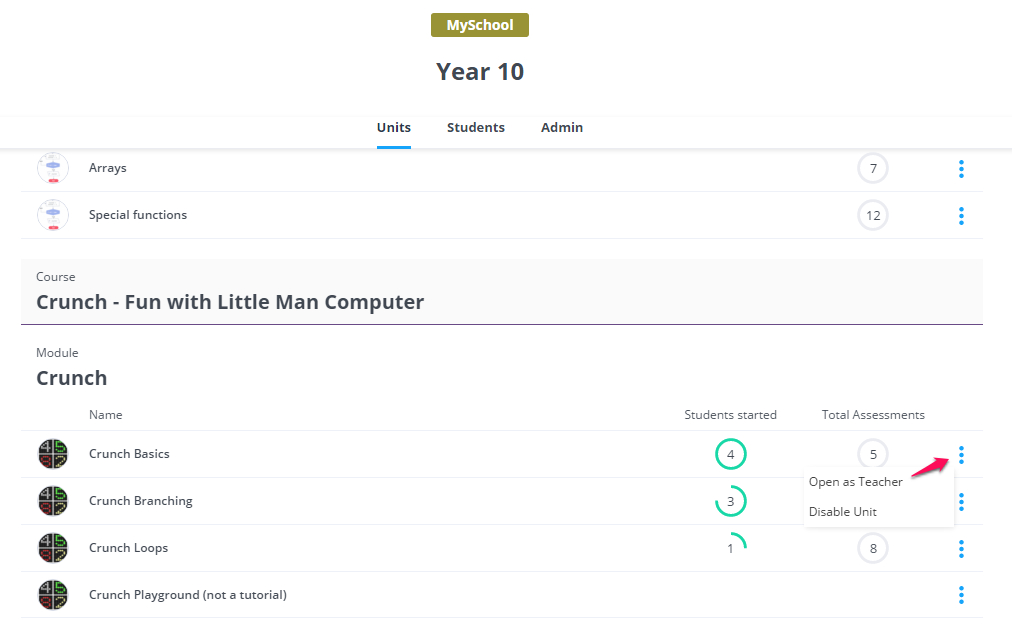
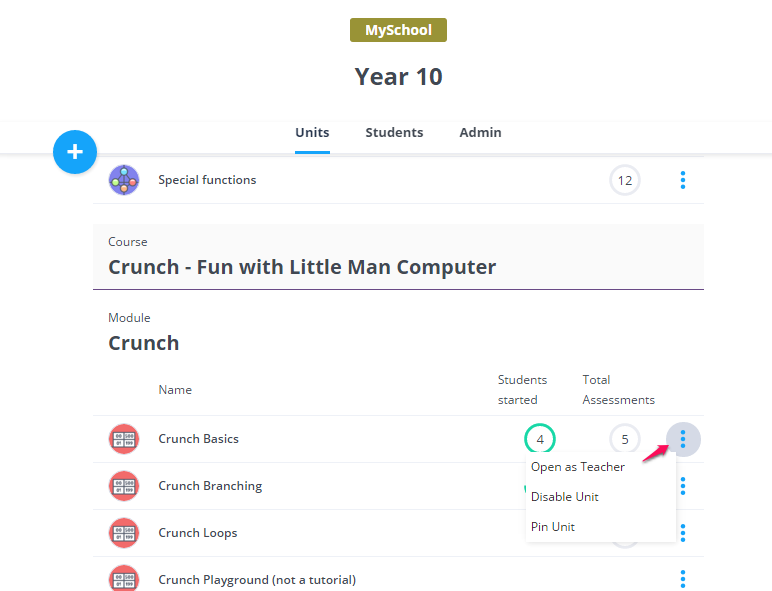
update managing classes

diff --git a/source/docs/dashboard/classes/class-module-assign.html.md b/source/docs/dashboard/classes/class-module-assign.html.md
@@ -4,26 +4,43 @@ class_name: docs
 full_width: true
 ---
 
+### Students View
 Once your class is set up, your students can start working.
 
-The student can access the modules by going to the the Classes menu item in the dashboard. They can select the appropriate class and then they will see all the modules for that class. 
+The student can access the modules by going to the the My Classroom menu item in the dashboard. They can select the appropriate class and then they will see all the modules for that class. 
 
-They can then open up the module to see the units and from there can then open project in the IDE by pressing the 'Start Unit' button.
+They can then open up the module to see the units and from there can then open project in the IDE by pressing the 'ready to go' button.
 
 ![Student Assign](/img/docs/class_start.png)
 
-This will fork the project into the students Codio account and will also be accessible to them from their My Units list in future. The students will then see 'Open Unit' in the above image.
+This will fork the project into the students Codio account and will also be accessible to them from their recently used area at the top of their My Classroom area. If they navigate to the Class/Course, they will see 'in progress' indicating they have already started the unit.
+
+### Managing your Class
+
+**Units tab**
 
 Teachers are able to see the students who have started units on the `Units` tab.
 
 If the counter in the `Students Started` column is blank, none of the students have yet assigned themselves the units, but otherwise the teacher can see how many students have started the unit, and clicking on that column will show more details.
 
+
 ![Student Progress](/img/docs/trial_try_unit.png)
 
-Teachers can enable/disable units here:
+Teachers can enable/disable and pin units here :
 
-1. Any units that are disabled will not be accessible by your students, either to Start a new unit or if they have already started the unit in the past, from their My Units area. 
-1. Teachers are still able to view the Students Unit if required. This can be useful if running a Controlled Assessment in  classes or if authoring your own content and wish to check it out within the class yourself first. 
+1. Any units that are disabled will not be accessible by your students, either to Start a new unit or if they have already started the unit in the past, from their My Classroom area. 
+1. Teachers are still able to view the Students Unit if required. This can be useful if running a Controlled Assessment in  classes or if authoring your own content and wish to check it out within the class yourself first.
+1. Units that are pinned will show as 'Starred' for the students in their recently used area.
 
 Teachers can also open the unit as a 'Teacher' to access the [Teacher Solutions](/docs/teacher/special/tsolutions/).
+
+**Students tab**
+
+![Student Remove](/img/docs/class_studentstab.png)
+
+Teachers can remove students from the class and if students do not have access to the email account used to create their Codio account, also change/reset their account password.
+
+
+
+
 
